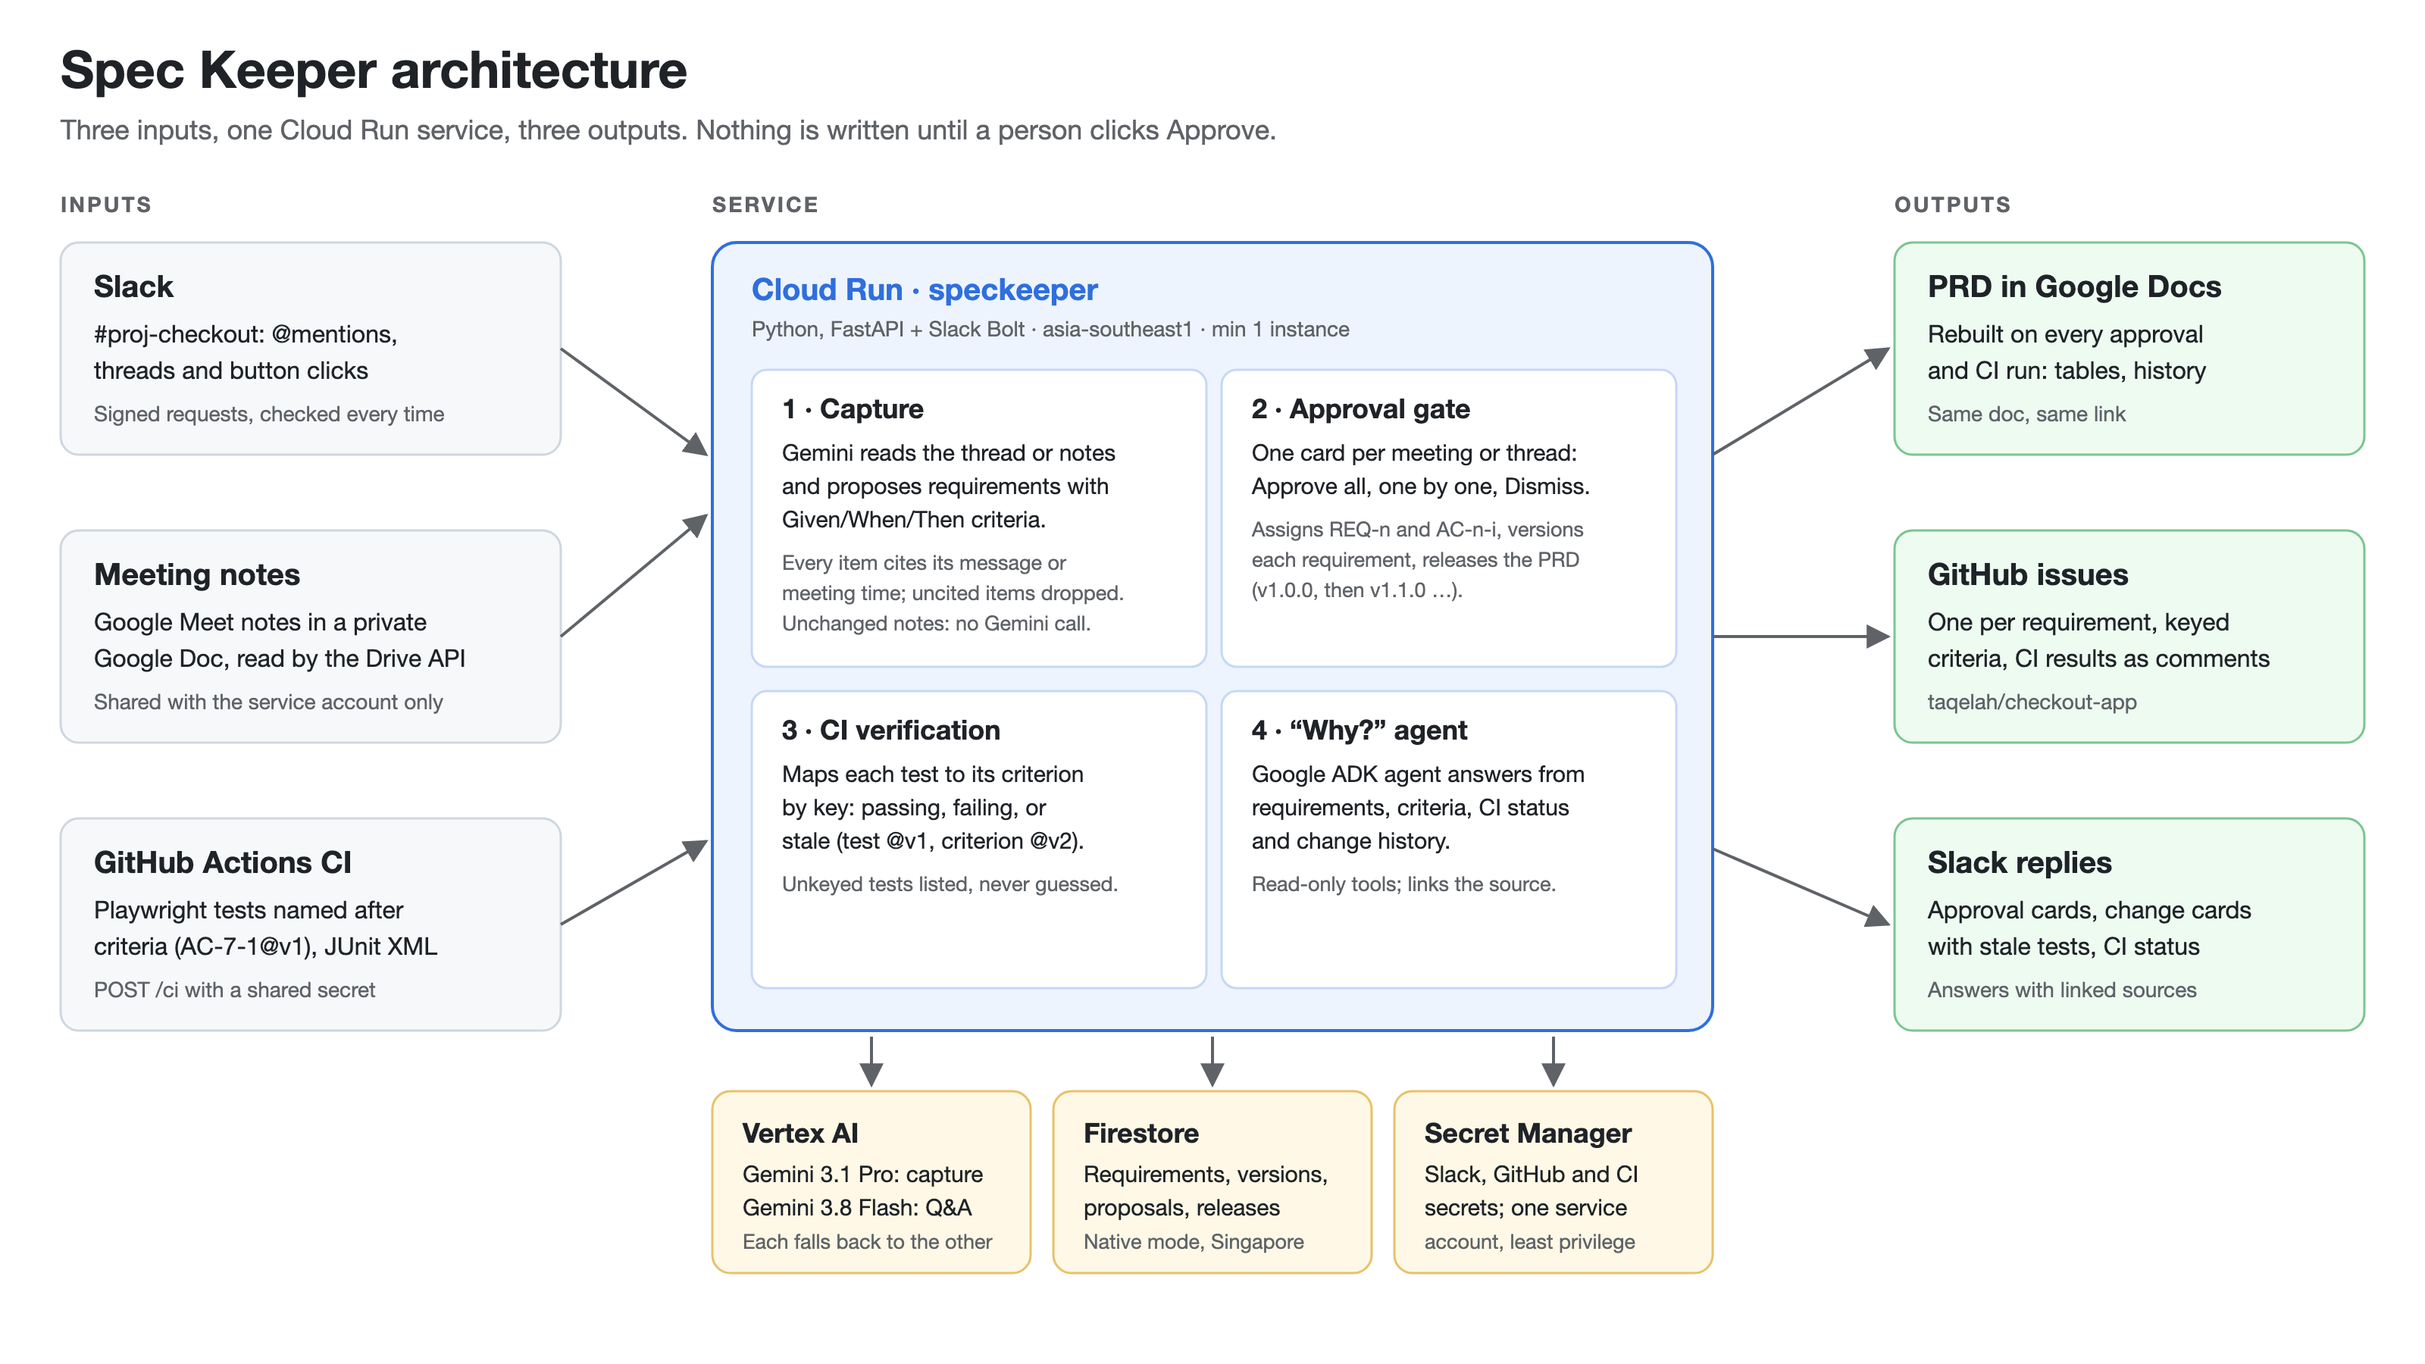
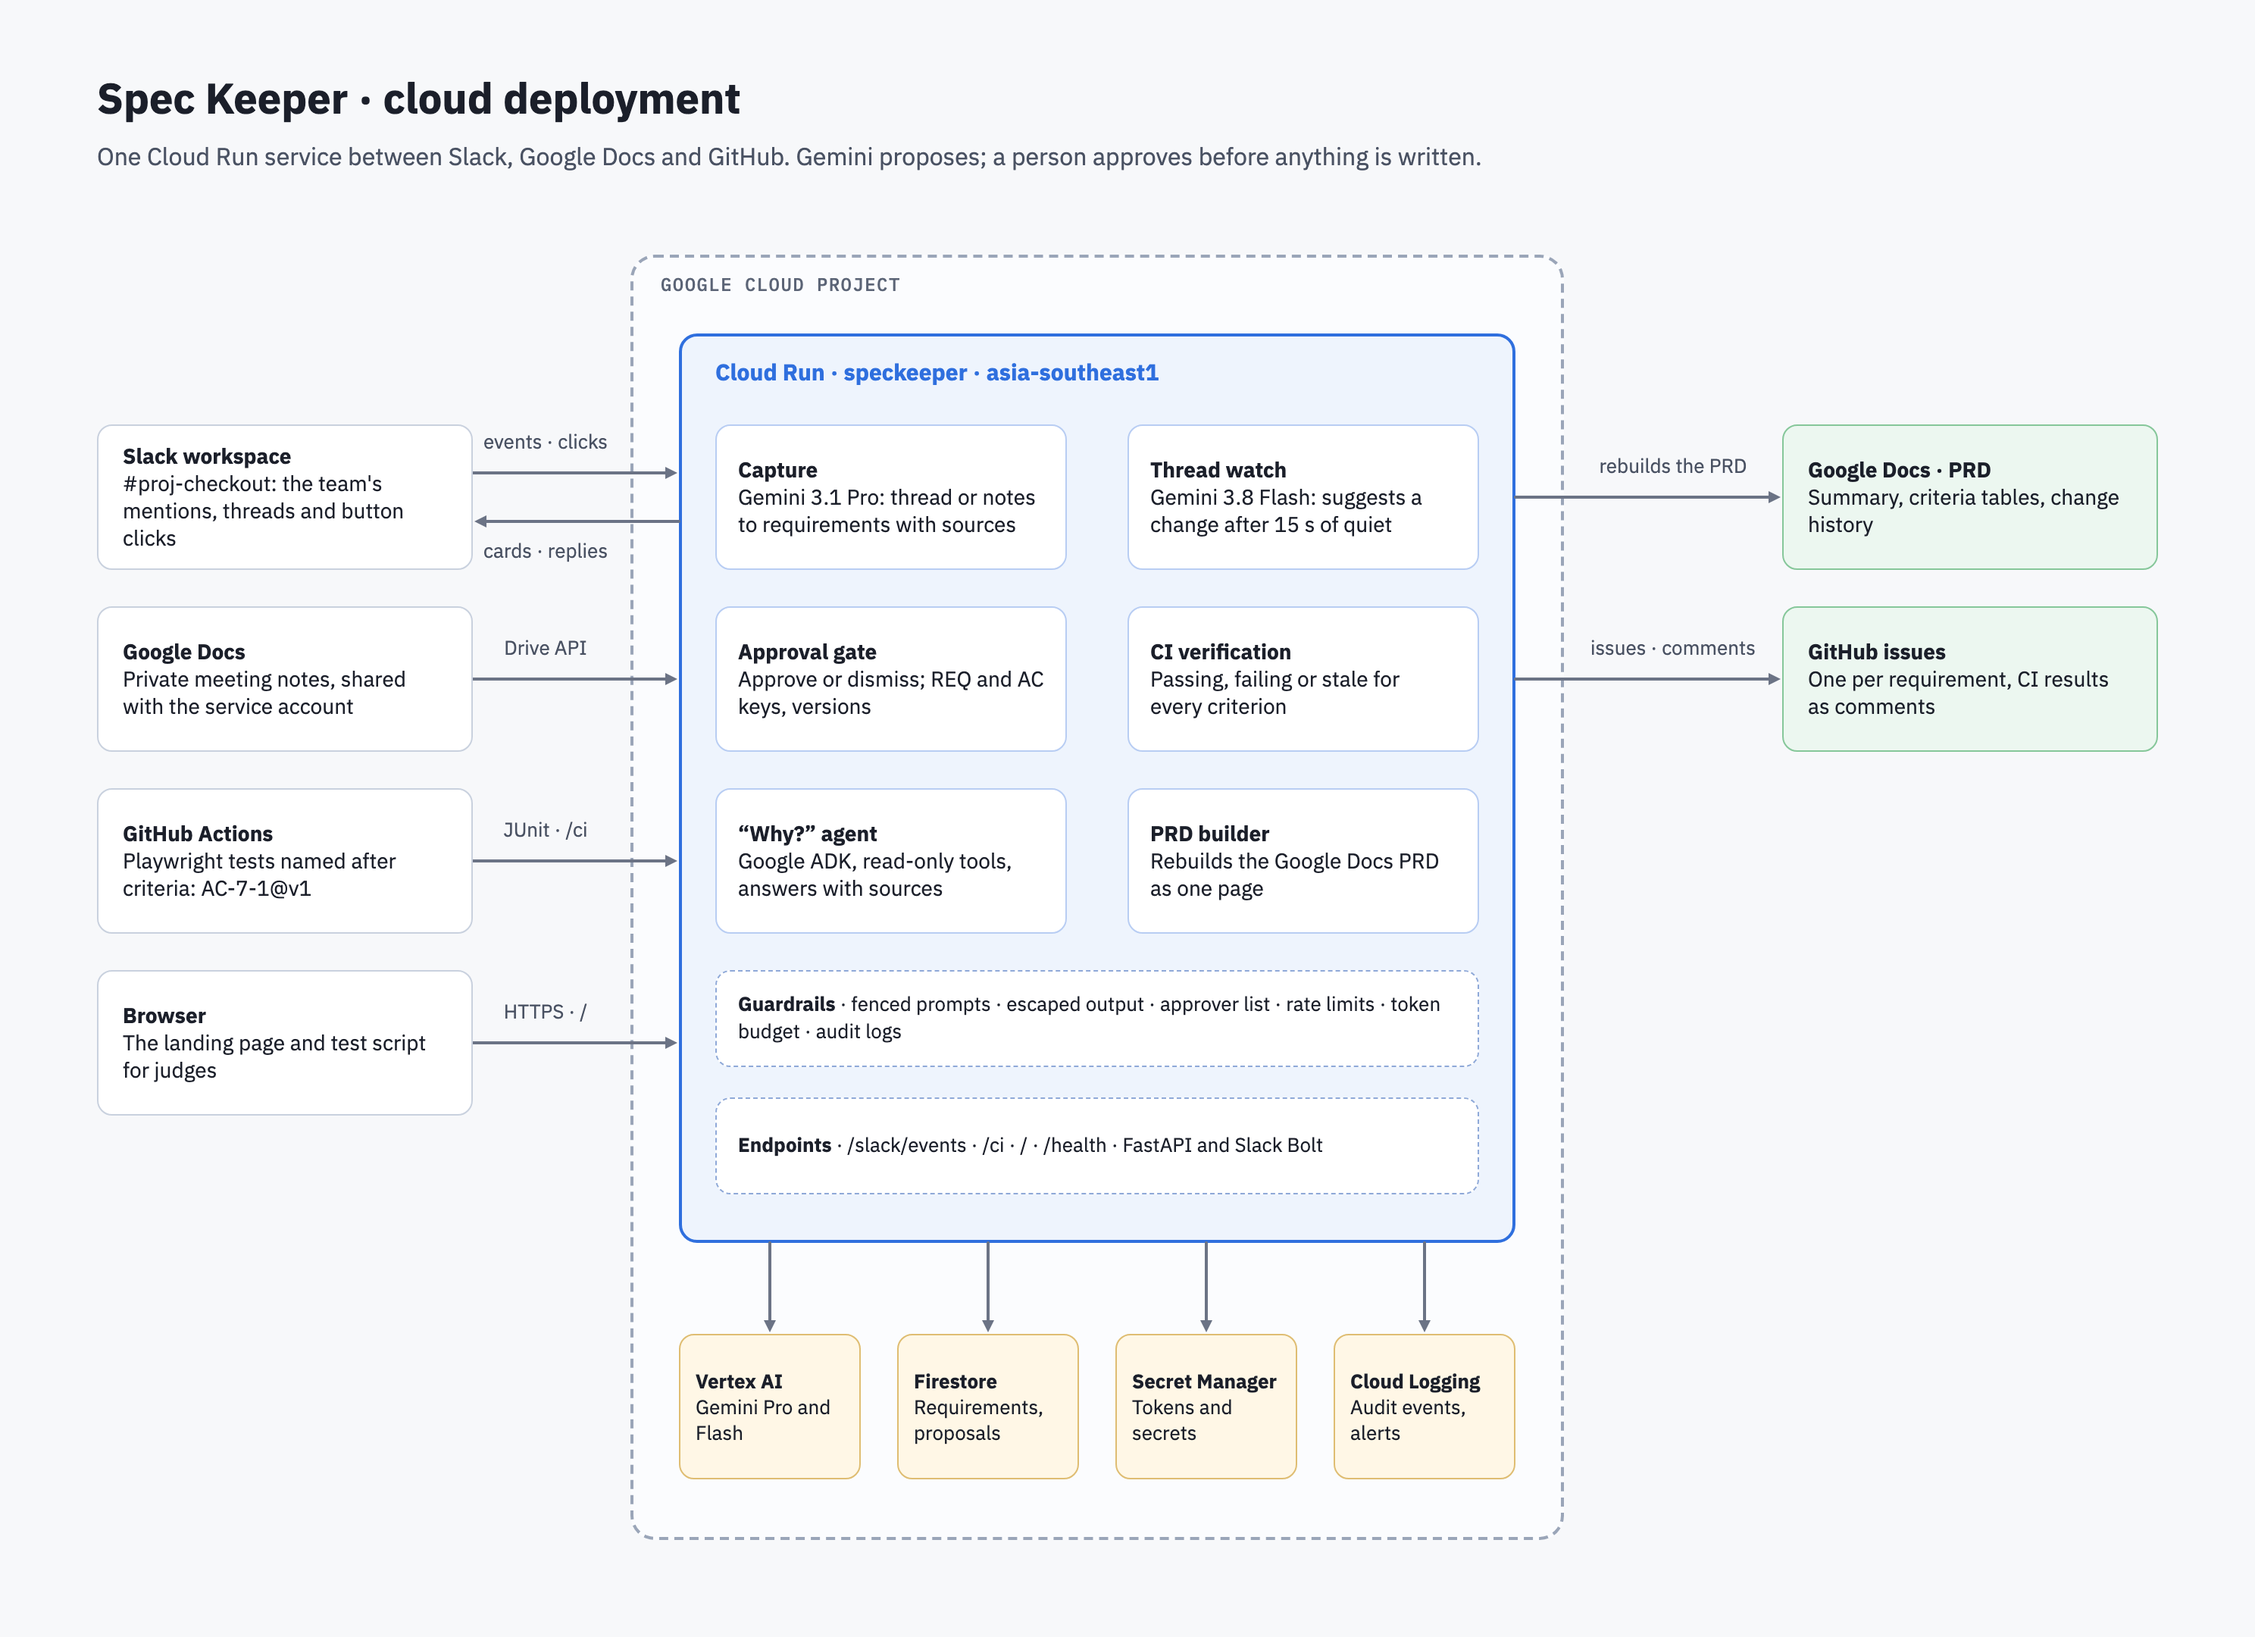
Architecture diagrams: cloud deployment on the landing page and README, plus how a change travels

diff --git a/src/speckeeper/web/index.html b/src/speckeeper/web/index.html
@@ -51,39 +51,10 @@
   .stale { color: var(--warn); font-weight: 600; }
   .pass { color: var(--ok); font-weight: 600; }
   img.arch { width: 100%; height: auto; border-radius: 8px; background: #fff; }
-  /* Architecture diagram: inputs → service → outputs, platform underneath; one column on phones. */
-  .arch-d { display: grid; grid-template-columns: minmax(0, 1fr) 44px minmax(0, 1.75fr) 44px minmax(0, 1fr); align-items: center; gap: 0; }
-  .arch-col { display: flex; flex-direction: column; gap: 12px; }
-  .arch-col .lbl, .svc .lbl, .plat .lbl { font-family: 'IBM Plex Mono', monospace; font-size: 12px; letter-spacing: 0.08em; color: var(--dim); }
-  .node { border: 1px solid var(--box); border-radius: 8px; padding: 14px 16px; background: #0f1c40; }
-  .node strong { display: block; font-size: 16px; }
-  .node span { display: block; font-size: 14px; color: var(--muted); line-height: 1.45; margin-top: 2px; }
-  .node.in { border-color: #3a4b78; }
-  .node.out { border-color: #2f6b55; background: #0d2230; }
-  .flow { display: flex; justify-content: center; color: var(--accent); }
-  .flow svg { width: 32px; height: 32px; }
-  .svc { border: 1.5px solid var(--accent); border-radius: 12px; padding: 16px; background: #10214d; display: flex; flex-direction: column; gap: 12px; }
-  .svc-head strong { font-family: 'Space Grotesk', sans-serif; font-size: 19px; color: var(--accent); }
-  .svc-head span { display: block; font-size: 13px; color: var(--dim); }
-  .mods { display: grid; grid-template-columns: repeat(2, minmax(0, 1fr)); gap: 10px; }
-  .mod { border: 1px solid var(--box); border-radius: 8px; padding: 12px 14px; background: #0b1838; }
-  .mod .n { font-family: 'IBM Plex Mono', monospace; font-size: 12px; color: var(--accent); }
-  .mod strong { display: block; font-size: 15px; margin-top: 2px; }
-  .mod span { display: block; font-size: 13.5px; color: var(--muted); line-height: 1.45; margin-top: 4px; }
-  .mod.wide { grid-column: 1 / -1; }
-  .guard { border: 1px dashed #3a4b78; border-radius: 8px; padding: 10px 14px; font-size: 13.5px; color: var(--muted); line-height: 1.5; }
-  .guard b { color: var(--text); font-weight: 600; }
-  .plat-wrap { grid-column: 3; display: flex; flex-direction: column; align-items: center; gap: 6px; margin-top: 6px; }
-  .plat { width: 100%; display: grid; grid-template-columns: repeat(4, minmax(0, 1fr)); gap: 10px; }
-  .node.p { border-color: #6b5a2c; background: #1c1d2a; }
-  .node.p strong { font-size: 15px; }
-  @media (max-width: 900px) {
-    .arch-d { grid-template-columns: minmax(0, 1fr); gap: 10px; }
-    .flow svg { transform: rotate(90deg); }
-    .plat-wrap { grid-column: 1; }
-    .plat { grid-template-columns: repeat(2, minmax(0, 1fr)); }
-  }
-  @media (max-width: 520px) { .mods { grid-template-columns: minmax(0, 1fr); } }
+  figure.diagram { margin: 0; display: flex; flex-direction: column; gap: 10px; }
+  figure.diagram a { display: block; }
+  figure.diagram img { width: 100%; height: auto; border-radius: 8px; background: #f7f8fa; display: block; }
+  figure.diagram figcaption { font-size: 15px; color: var(--dim); }
   ul.limits { margin: 0; padding-left: 20px; display: flex; flex-direction: column; gap: 8px; color: var(--muted); }
   @media (max-width: 640px) {
     .table.script table, .table.script tbody, .table.script tr, .table.script td { display: block; min-width: 0; }
@@ -176,45 +147,9 @@
 
   <section class="wrap block" id="how" aria-labelledby="how-h">
     <h2 id="how-h">How it works</h2>
-    <figure style="margin: 0" aria-labelledby="arch-cap">
-      <figcaption id="arch-cap" class="lead" style="font-size: 17px; margin-bottom: 18px">Three inputs, one Cloud Run service, three outputs. Gemini proposes; nothing is written until a person approves.</figcaption>
-      <div class="arch-d">
-        <div class="arch-col">
-          <span class="lbl">INPUTS</span>
-          <div class="node in"><strong>Slack</strong><span>#proj-checkout: mentions, thread replies, button clicks. Every request signature-checked.</span></div>
-          <div class="node in"><strong>Meeting notes</strong><span>A private Google Doc, read through the Drive API as the service account.</span></div>
-          <div class="node in"><strong>GitHub Actions CI</strong><span>Playwright tests named after criteria (AC-7-1@v1). JUnit XML to /ci with a secret.</span></div>
-        </div>
-        <div class="flow" aria-hidden="true"><svg viewBox="0 0 32 32" fill="none" stroke="currentColor" stroke-width="2.2" stroke-linecap="round" stroke-linejoin="round"><path d="M5 16h20M18 9l7 7-7 7"></path></svg></div>
-        <div class="svc">
-          <div class="svc-head"><strong>Cloud Run · speckeeper</strong><span>Python · FastAPI · Slack Bolt · asia-southeast1</span></div>
-          <div class="mods">
-            <div class="mod"><span class="n">1</span><strong>Capture</strong><span>Gemini 3.1 Pro turns a thread or notes into requirements with Given/When/Then criteria. Uncited items are dropped.</span></div>
-            <div class="mod"><span class="n">2</span><strong>Thread watch</strong><span>After 15 s of quiet, Gemini 3.8 Flash checks new messages and suggests a change only when sure.</span></div>
-            <div class="mod"><span class="n">3</span><strong>Approval gate</strong><span>Approve all, one by one, or dismiss. Assigns REQ and AC keys, versions each requirement and the PRD.</span></div>
-            <div class="mod"><span class="n">4</span><strong>CI verification</strong><span>Maps each test to its criterion by key: passing, failing, or stale when the test is for an older version.</span></div>
-            <div class="mod wide"><span class="n">5</span><strong>“Why?” agent</strong><span>A Google ADK agent answers from requirements, criteria, CI status and history, with read-only tools and linked sources.</span></div>
-          </div>
-          <div class="guard"><b>Guardrails:</b> rules in Gemini's system instruction, messages fenced as data · output escaped · approver list · per-user limits and a daily token budget · audit logs</div>
-        </div>
-        <div class="flow" aria-hidden="true"><svg viewBox="0 0 32 32" fill="none" stroke="currentColor" stroke-width="2.2" stroke-linecap="round" stroke-linejoin="round"><path d="M5 16h20M18 9l7 7-7 7"></path></svg></div>
-        <div class="arch-col">
-          <span class="lbl">OUTPUTS</span>
-          <div class="node out"><strong>PRD in Google Docs</strong><span>Rebuilt on every approval and CI run: summary, criteria tables, change history.</span></div>
-          <div class="node out"><strong>GitHub issues</strong><span>One per requirement with keyed criteria; CI results as comments.</span></div>
-          <div class="node out"><strong>Slack replies</strong><span>Approval and change cards, suggestions, CI status, answers with sources.</span></div>
-        </div>
-        <div class="plat-wrap">
-          <svg viewBox="0 0 32 32" width="28" height="28" fill="none" stroke="#a9b6d3" stroke-width="2.2" stroke-linecap="round" stroke-linejoin="round" aria-hidden="true"><path d="M16 5v20M9 18l7 7 7-7"></path></svg>
-          <span class="lbl" style="font-family: 'IBM Plex Mono', monospace; font-size: 12px; letter-spacing: 0.08em; color: var(--dim)">GOOGLE CLOUD SERVICES IT USES</span>
-          <div class="plat" role="list" aria-label="Google Cloud services the service uses">
-            <div class="node p" role="listitem"><strong>Vertex AI</strong><span>Gemini Pro and Flash, each falling back to the other</span></div>
-            <div class="node p" role="listitem"><strong>Firestore</strong><span>Requirements, proposals, versions, releases</span></div>
-            <div class="node p" role="listitem"><strong>Secret Manager</strong><span>Slack, GitHub and CI secrets</span></div>
-            <div class="node p" role="listitem"><strong>Cloud Logging</strong><span>Audit events and alerts</span></div>
-          </div>
-        </div>
-      </div>
+    <figure class="diagram">
+      <a href="/architecture.png"><img src="/architecture.png" width="1488" height="1080" alt="Cloud deployment. Slack, the meeting notes in Google Docs, GitHub Actions and a browser feed one Cloud Run service in a Google Cloud project. Inside it: capture with Gemini 3.1 Pro, thread watch with Gemini 3.8 Flash, the approval gate, CI verification, the ADK question agent and the PRD builder, behind guardrails. It uses Vertex AI, Firestore, Secret Manager and Cloud Logging, and writes the PRD in Google Docs and GitHub issues."></a>
+      <figcaption>Cloud deployment. Open the image for full size. <a href="/change-sequence.png" style="display: inline">See how one change travels through it, step by step</a>.</figcaption>
     </figure>
     <div class="grid">
       <div class="card"><strong>Nothing changes on its own</strong><p>Gemini only proposes. The PRD and issues change when a person clicks Approve, and every requirement cites where it was agreed.</p></div>

diff --git a/tests/test_web.py b/tests/test_web.py
@@ -21,7 +21,7 @@ def test_the_root_explains_the_product_with_live_links_and_limits():
     assert "Nobody told the tests." in body and "Where to look for each criterion" in body and "AC-7-1@v1" in body
     assert "https://docs.google.com/document/d/DOC1/edit" in body and "taqelah/checkout-app/actions" in body
     assert "7 requests every 5 minutes" in body and "$" not in body.split("</style>")[1]  # every placeholder filled
-    assert http.get("/architecture.png").status_code == 200 and http.get("/icon.png").status_code == 200
+    assert all(http.get(f).status_code == 200 for f in ("/architecture.png", "/change-sequence.png", "/icon.png"))
 
 
 def test_buttons_appear_only_for_links_that_are_set():

diff --git a/src/speckeeper/main.py b/src/speckeeper/main.py
@@ -98,6 +98,10 @@ def create_app(s: Settings | None = None, svc: SpecKeeper | None = None, slack_c
     async def architecture():
         return FileResponse(WEB / "architecture.png", media_type="image/png", headers={"Cache-Control": "public, max-age=86400"})
 
+    @api.get("/change-sequence.png")
+    async def change_sequence():
+        return FileResponse(WEB / "change-sequence.png", media_type="image/png", headers={"Cache-Control": "public, max-age=86400"})
+
     @api.get("/icon.png")
     async def icon():
         return FileResponse(WEB / "icon.png", media_type="image/png", headers={"Cache-Control": "public, max-age=86400"})

diff --git a/README.md b/README.md
@@ -30,6 +30,12 @@ Vertex AI and the Agent Development Kit.
 
 ## How it works
 
+![Spec Keeper cloud deployment](docs/architecture.png)
+
+How one change travels through it, from a Slack message to a stale test:
+
+![How a change travels](docs/change-sequence.png)
+
 ```mermaid
 flowchart LR
     subgraph Inputs
